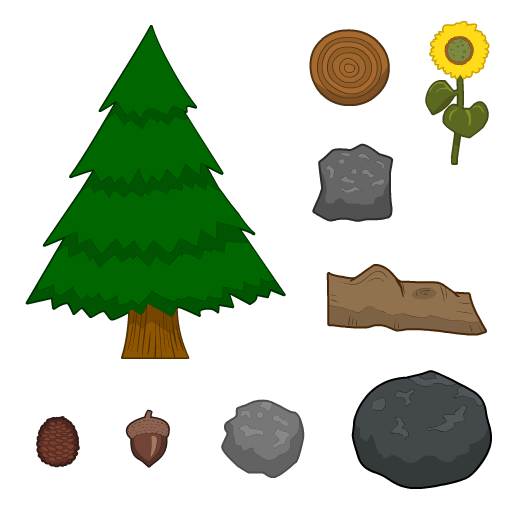
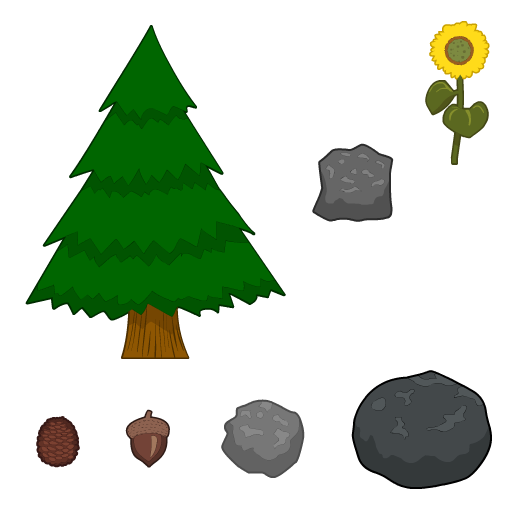
added sunflower
git-svn-id: svn://10.0.50.55/puffbomb/trunk@2457 d14347b8-48fd-0310-9e84-97907d434d85

Changed region(s): [[0.625, 0.5, 0.9688, 0.6562], [0.5938, 0.0312, 0.7812, 0.2188]]

diff --git a/Code/Game/PuffBOMB/CreateCollectionInstance.cpp b/Code/Game/PuffBOMB/CreateCollectionInstance.cpp
@@ -90,6 +90,10 @@ Engine2D::cDynamicCollection* CreateCollectionInstance( const unsigned int Id, c
 			return new Engine2D::cDynamicCollection( "2D/ForegroundElementsOne/ForegroundRockThree.coll", Pos );
 			break;
 		}
+		case 142: {
+			return new Engine2D::cDynamicCollection( "2D/ForegroundElementsOne/ForegroundSunflower.coll", Pos );
+			break;
+		}
 
 		
 		default: {
